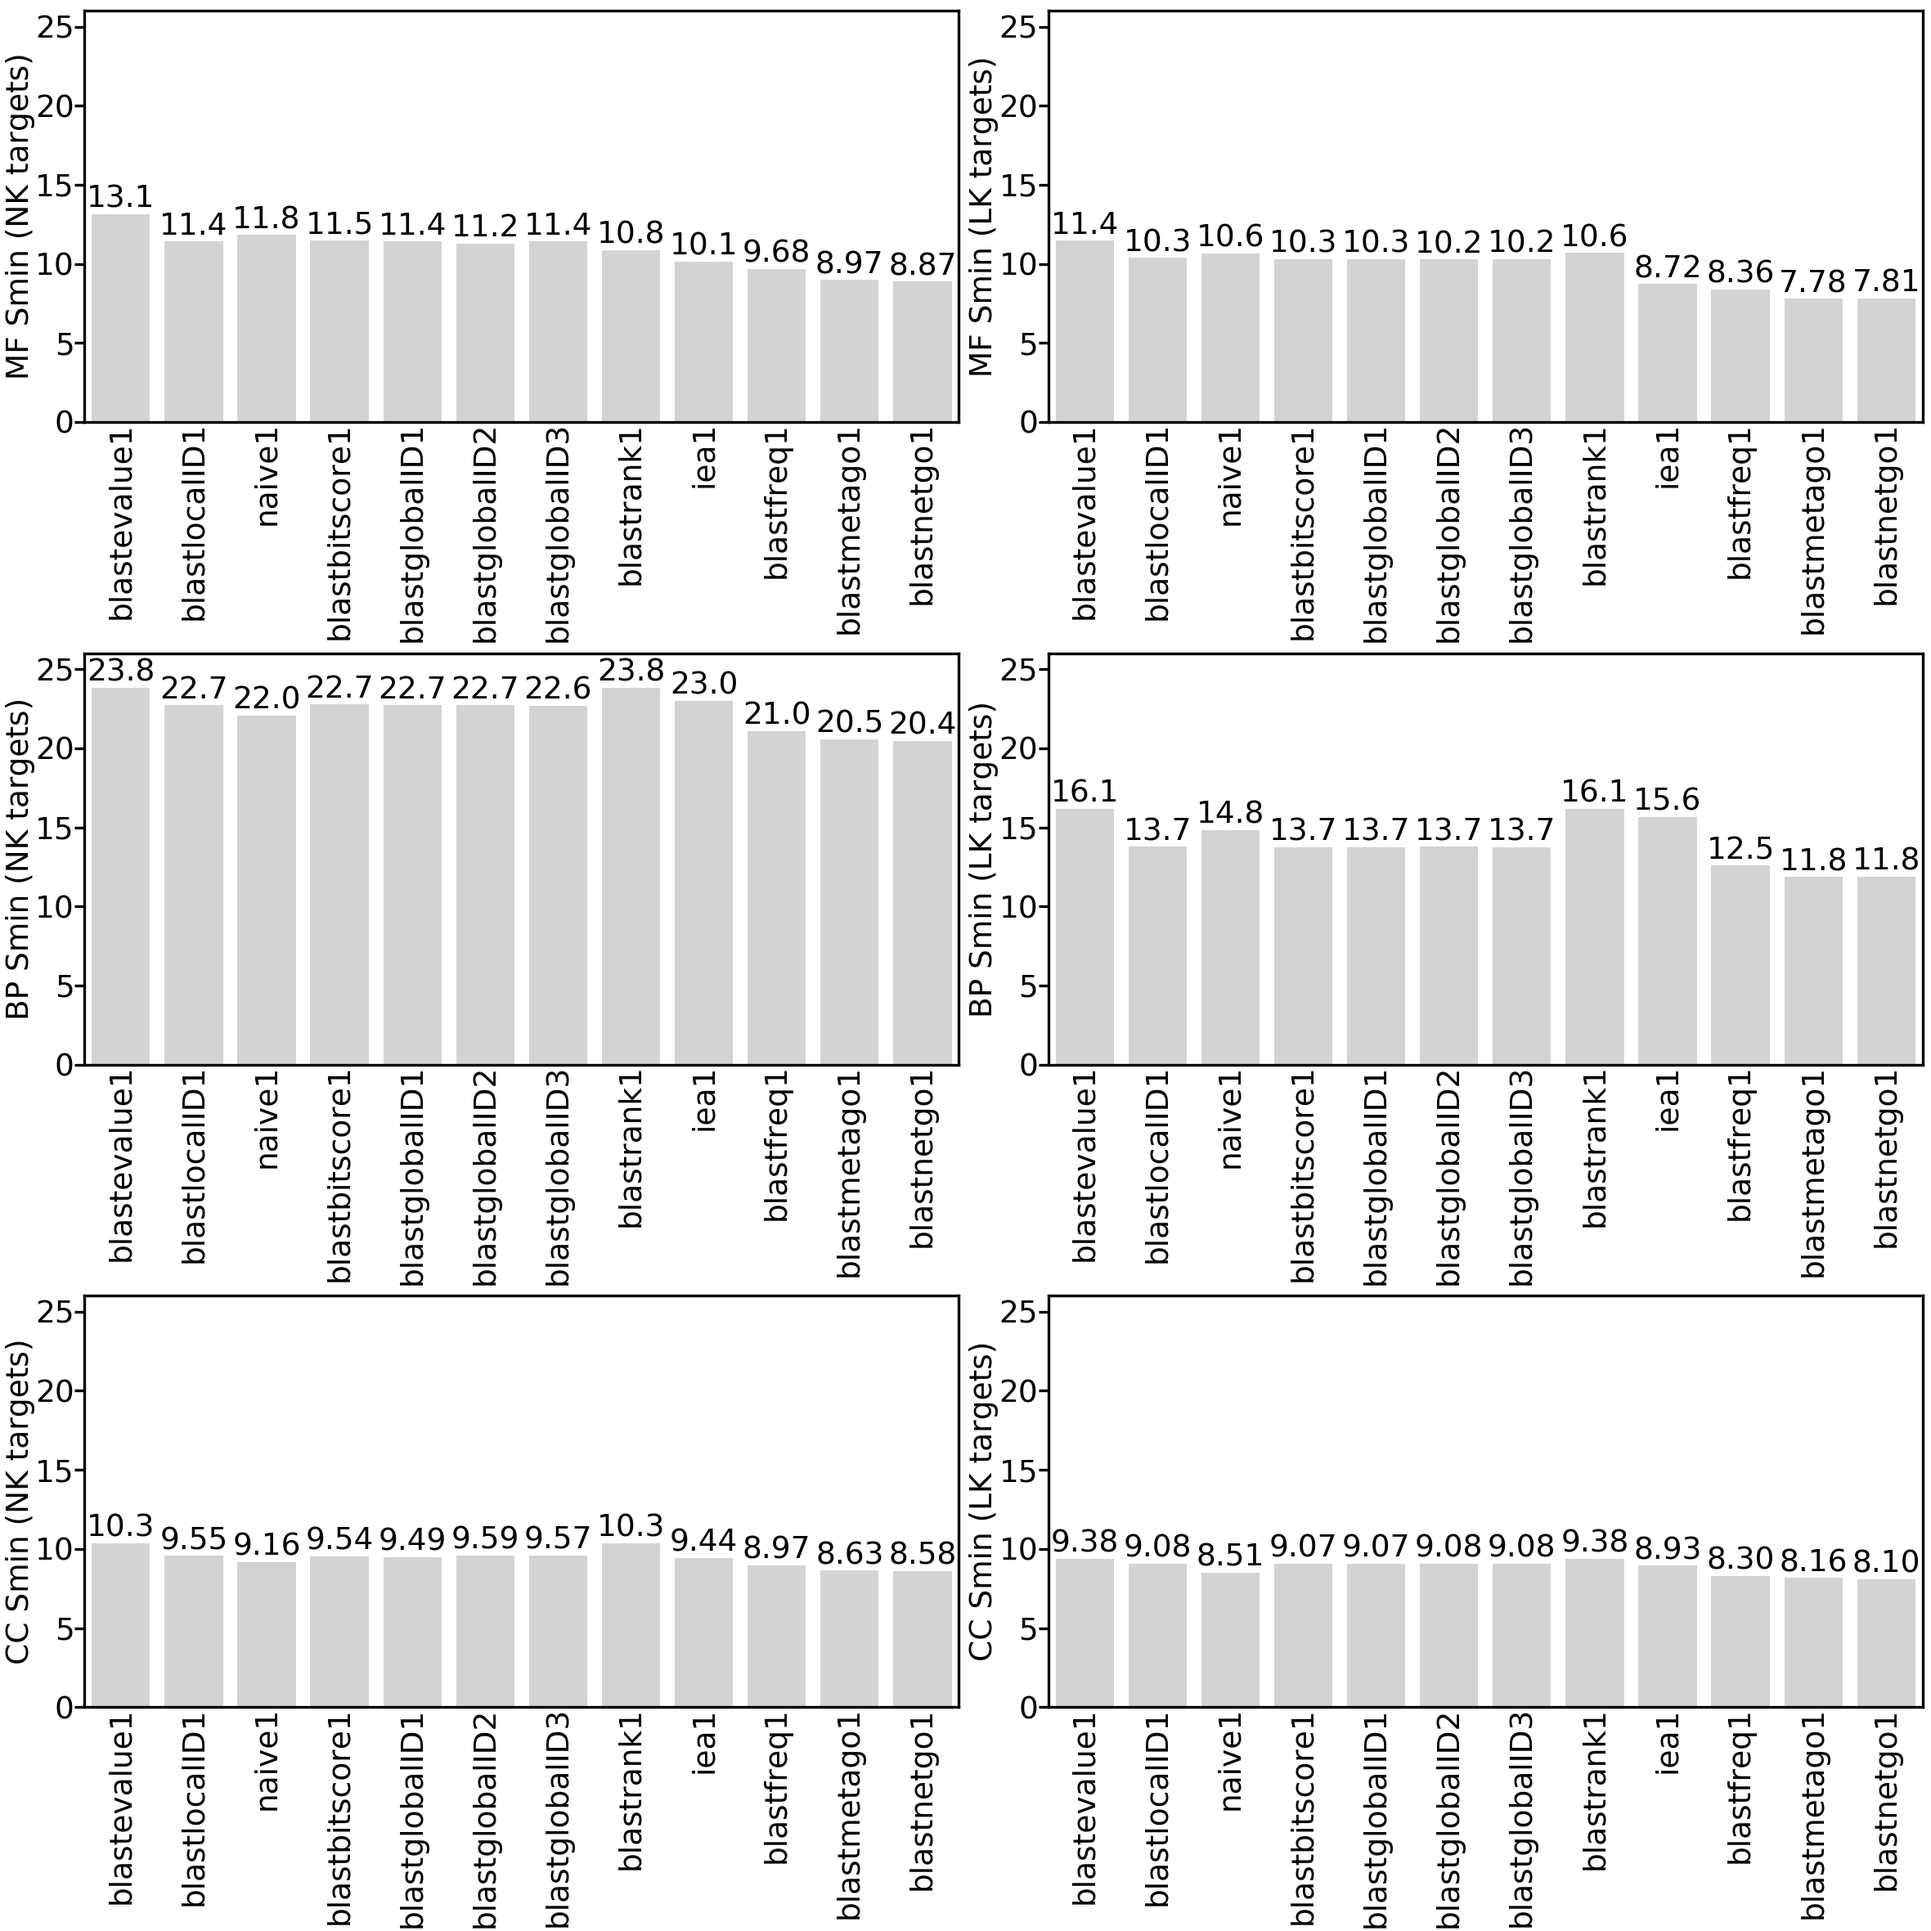
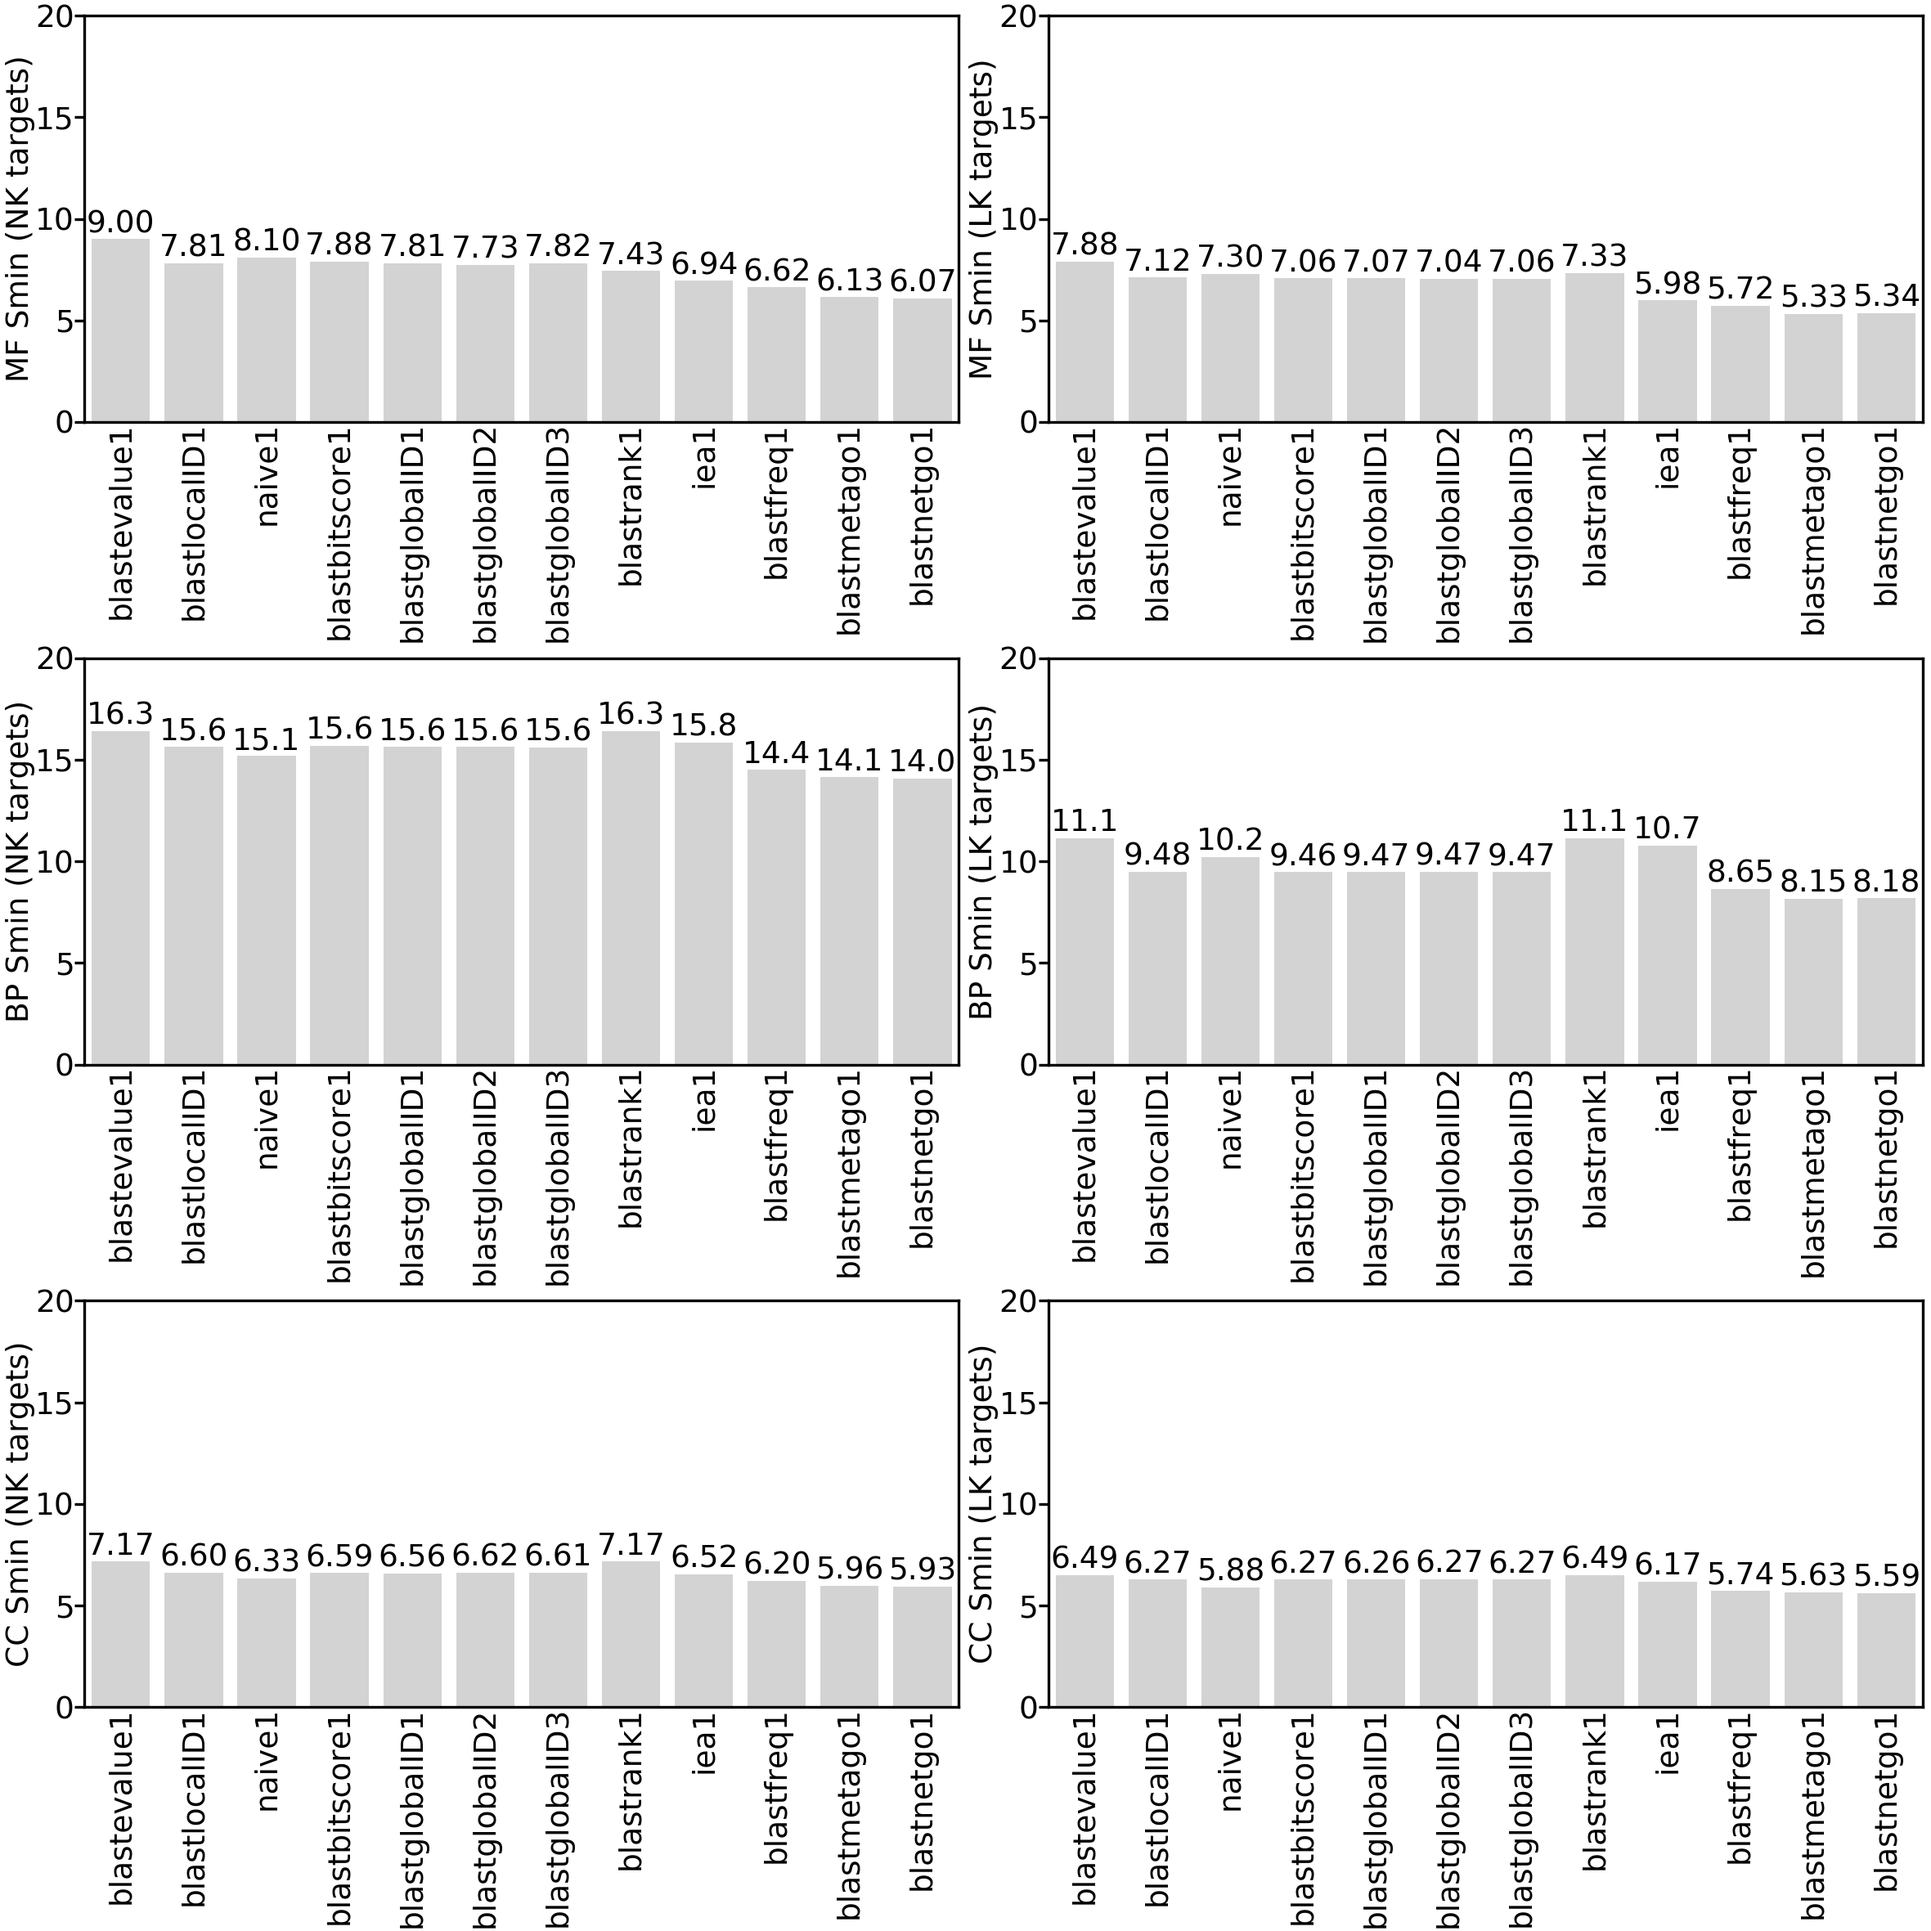
adjust Smin yaxis

diff --git a/results/plot_nw.py b/results/plot_nw.py
@@ -61,7 +61,7 @@ for metric in ["Fmax","Smin"]:
                 if xticks[-1]=="alnscore1":
                     xticks[-1]+="\nbitscore1"
             plt.xticks(range(len(score_list)),xticks,rotation=90,fontsize=fontsize)
-            plt.axis([-0.5,len(method_list)-0.5,0,0.75 if metric=="Fmax" else 28])
+            plt.axis([-0.5,len(method_list)-0.5,0,0.75 if metric=="Fmax" else 20])
             ax.tick_params('x',length=0)
             ax.tick_params('y',length=3)
             ax.tick_params('both',pad=0)

diff --git a/results/plot.py b/results/plot.py
@@ -52,7 +52,7 @@ for metric in ["Fmax","Smin"]:
             plt.xticks(range(len(score_list)),
                 [method.replace('_','') for method in method_list],
                 rotation=90,fontsize=fontsize)
-            plt.axis([-0.5,len(method_list)-0.5,0,0.73 if metric=="Fmax" else 26])
+            plt.axis([-0.5,len(method_list)-0.5,0,0.73 if metric=="Fmax" else 20])
             ax.tick_params('x',length=0)
             ax.tick_params('y',length=3)
             ax.tick_params('both',pad=0)
